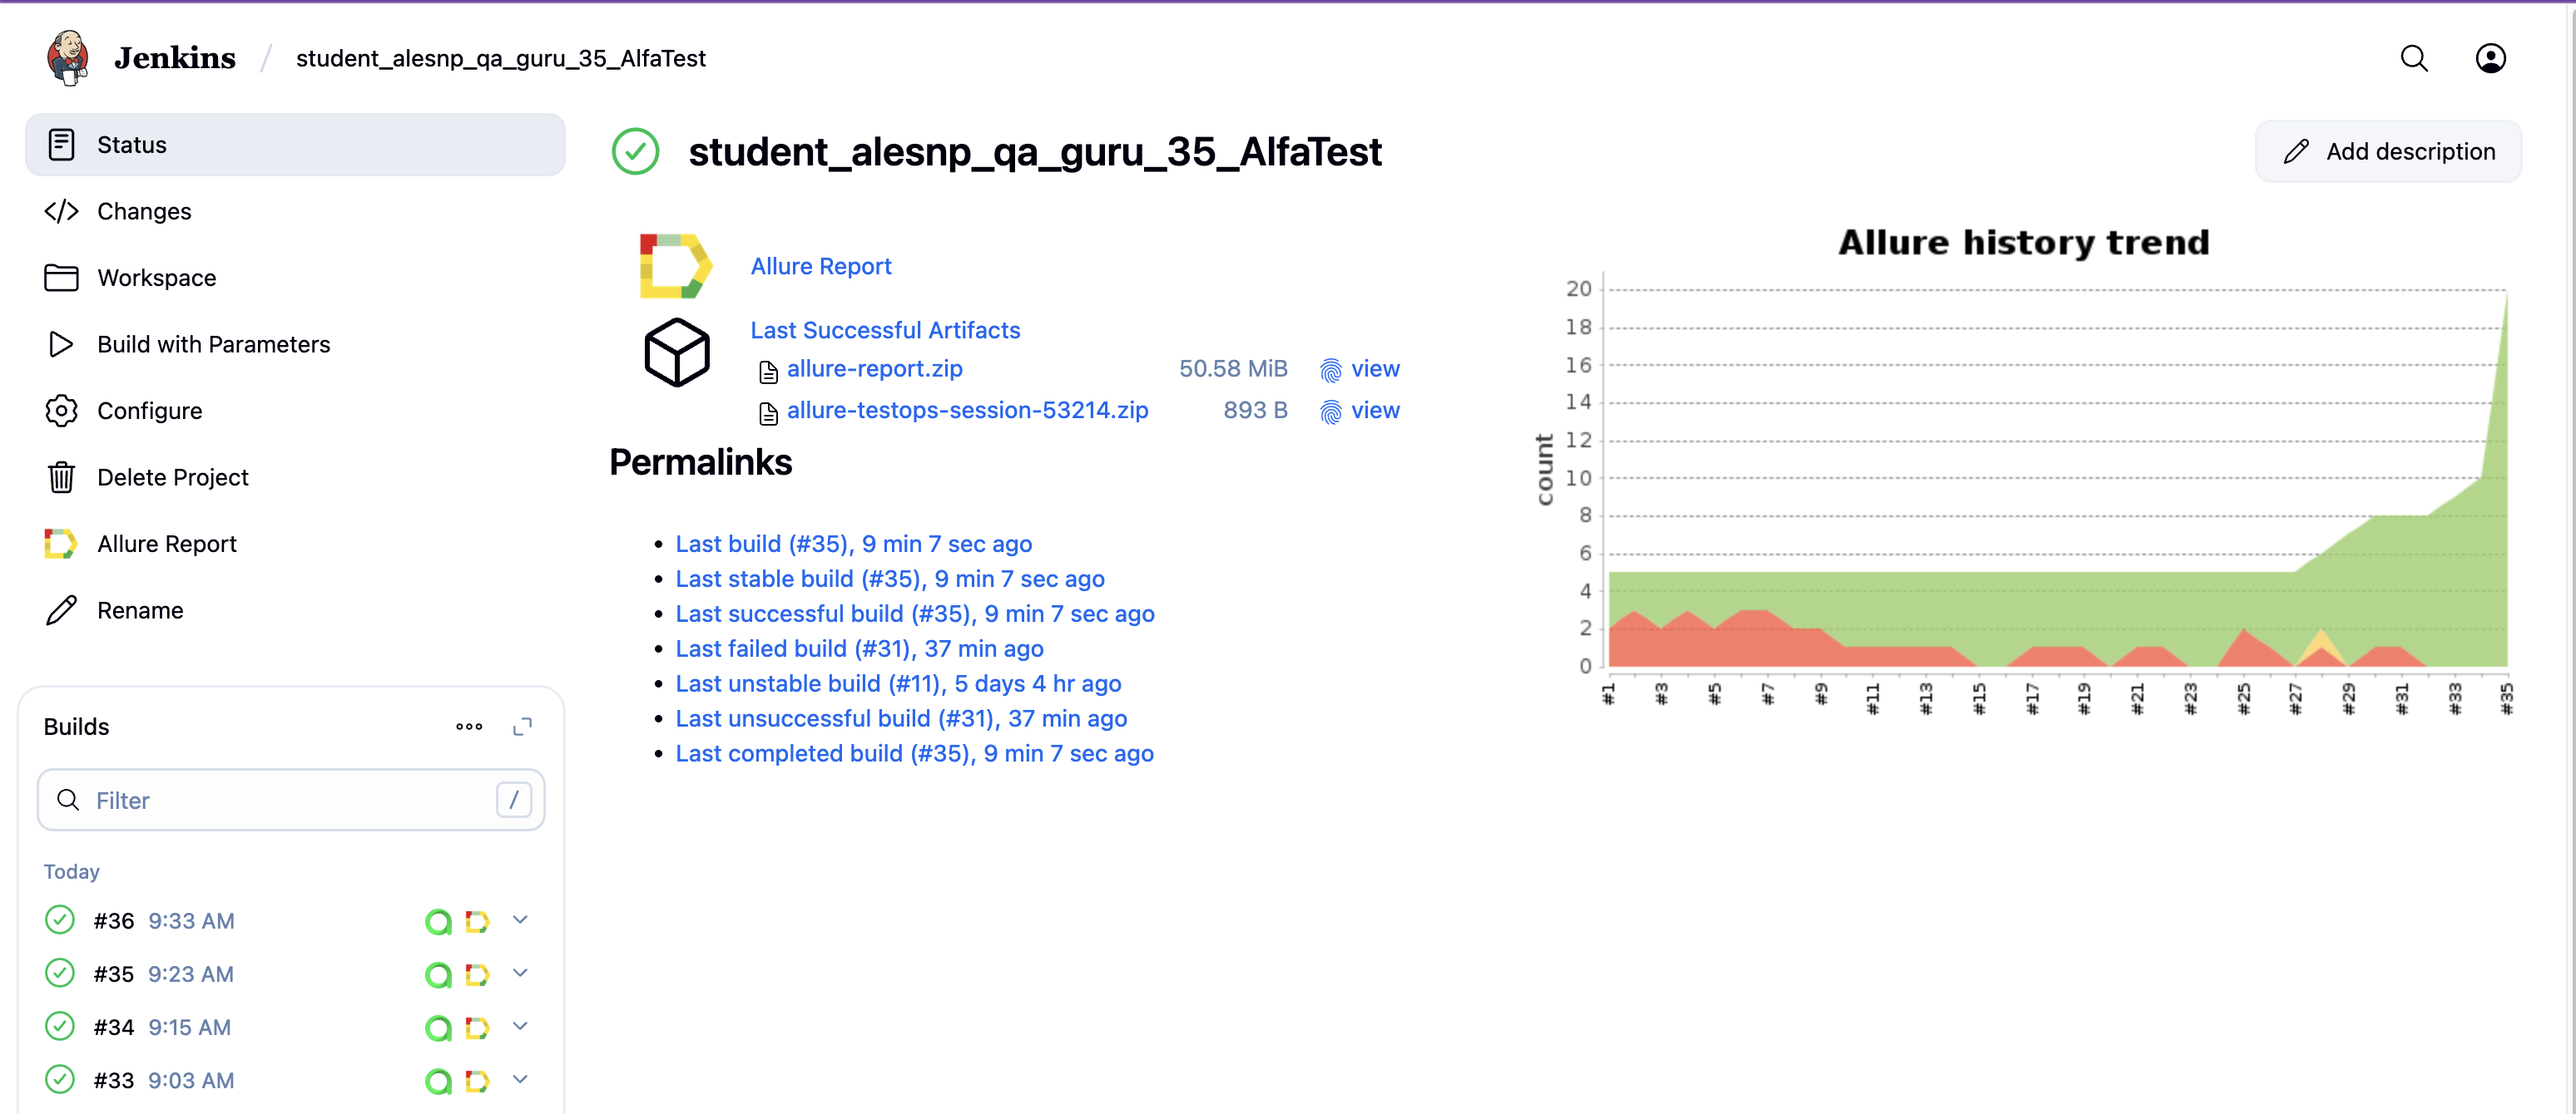
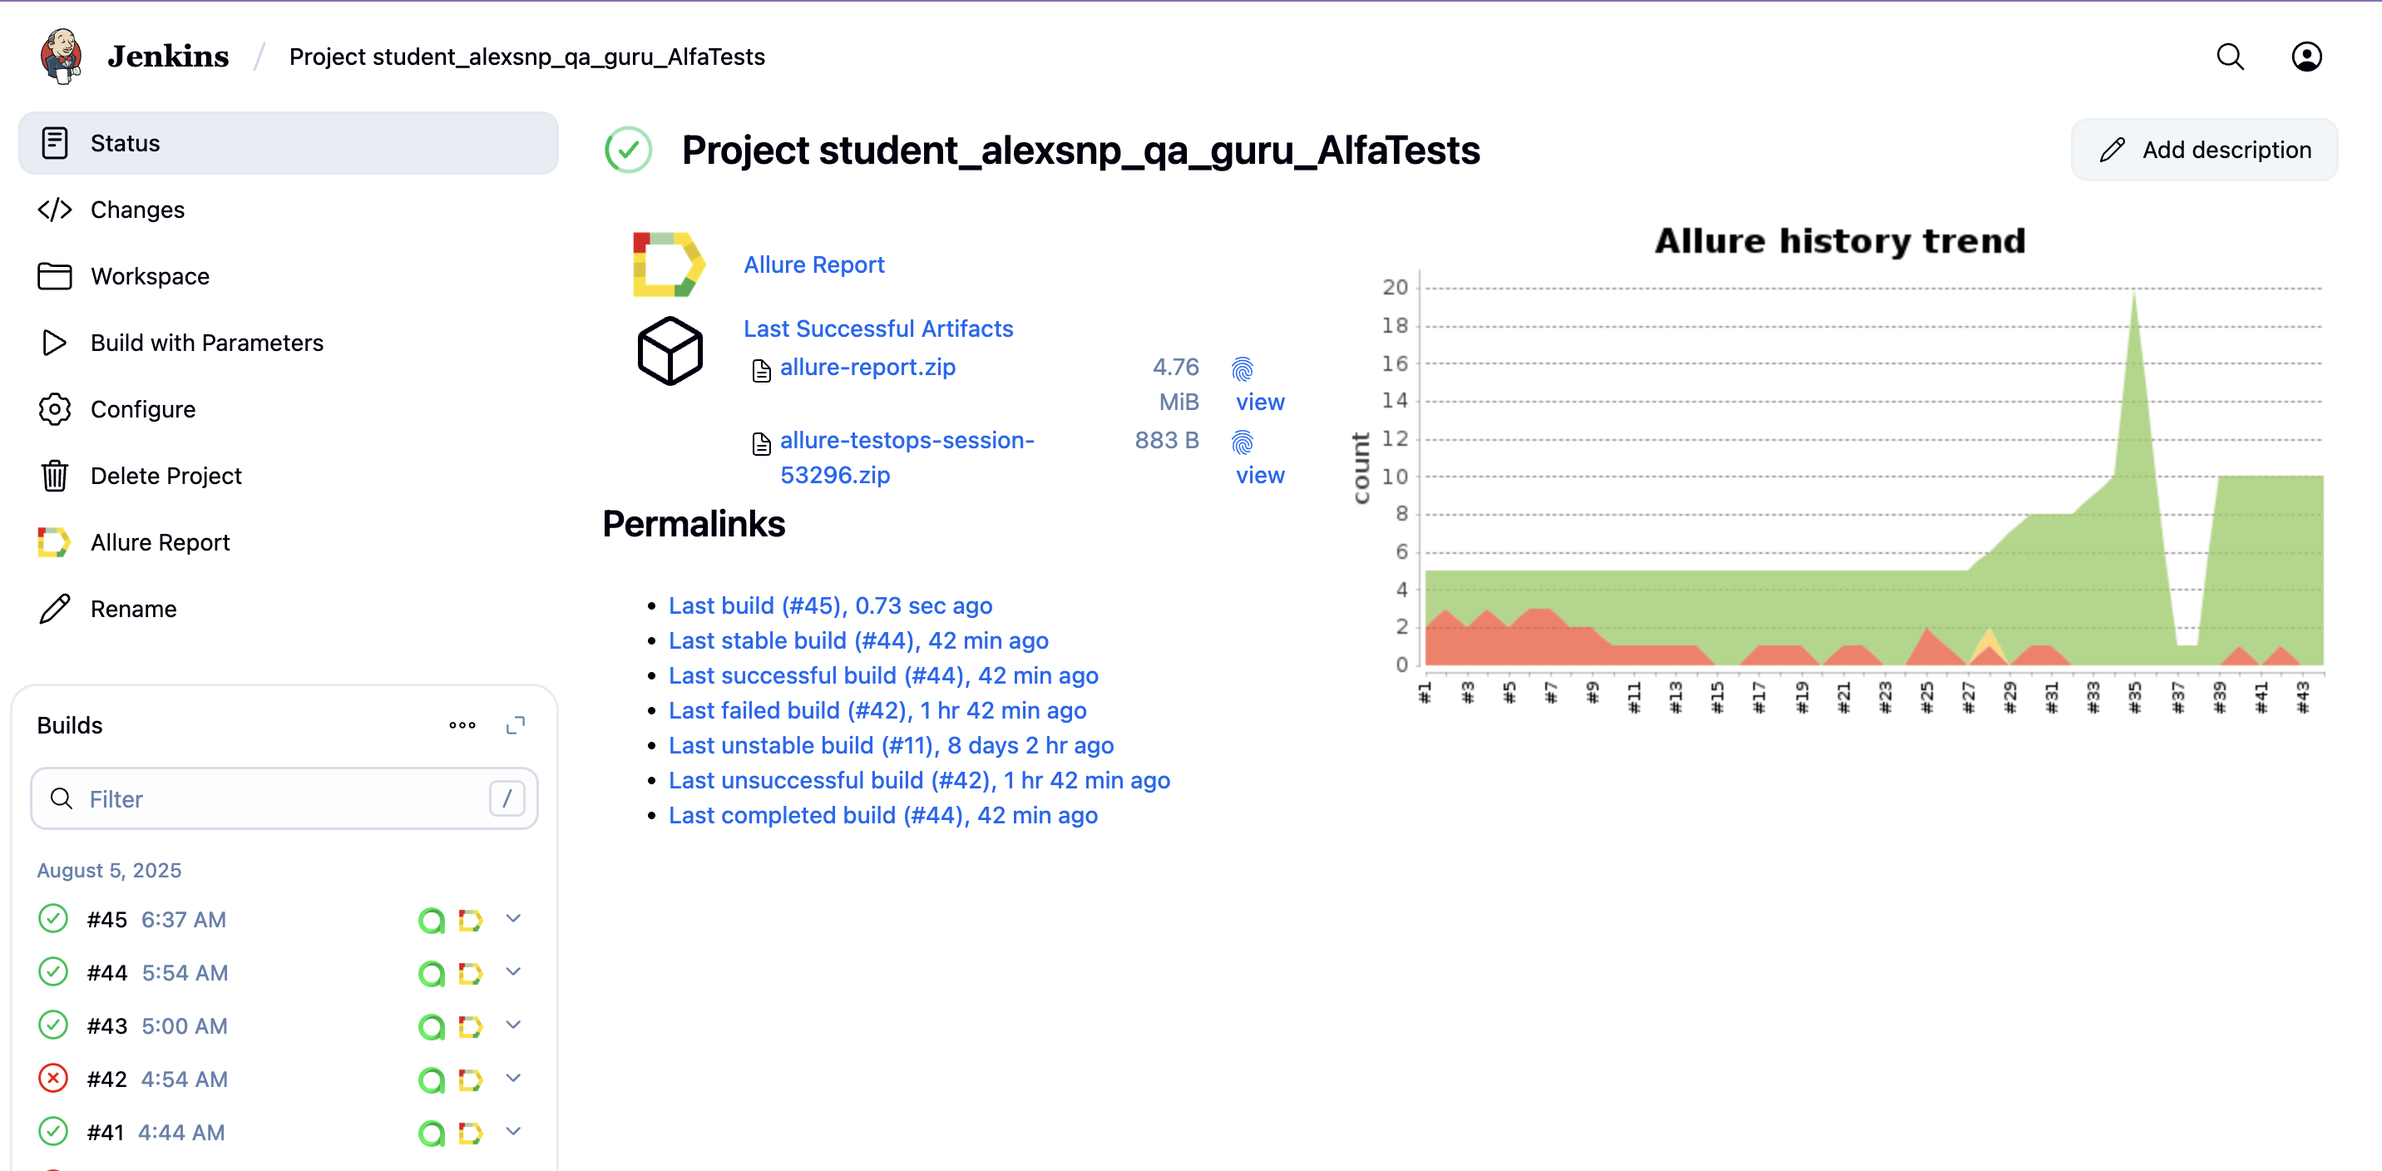
updated screenshots

diff --git a/README.md b/README.md
@@ -92,7 +92,7 @@ clean alfa_test
 ```
 ___
 <a id="allure"></a>
-## <img alt="Allure_Report" height="25" src="images/logo/Allure_Report.svg" width="25"/></a> <a name="Allure_Report"></a>Allure [отчет](https://jenkins.autotests.cloud/job/Project%20student_alexsnp_qa_guru_AlfaTests/36/allure/)</a>
+## <img alt="Allure_Report" height="25" src="images/logo/Allure_Report.svg" width="25"/></a> <a name="Allure_Report"></a>Allure [отчет](https://jenkins.autotests.cloud/job/Project%20student_alexsnp_qa_guru_AlfaTests/45/allure/)</a>
 ___
 
 ### *Основная страница отчёта*
